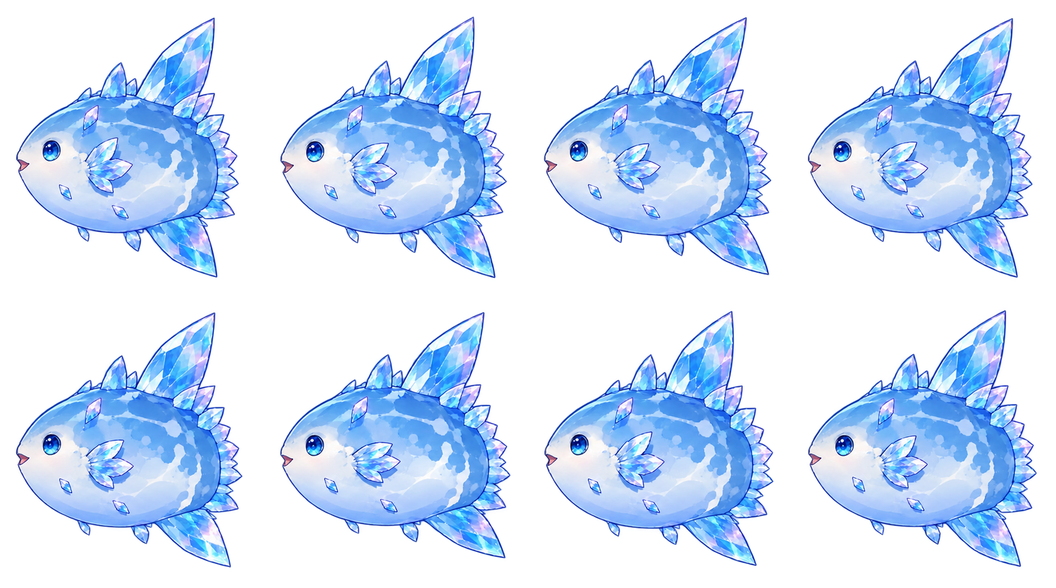
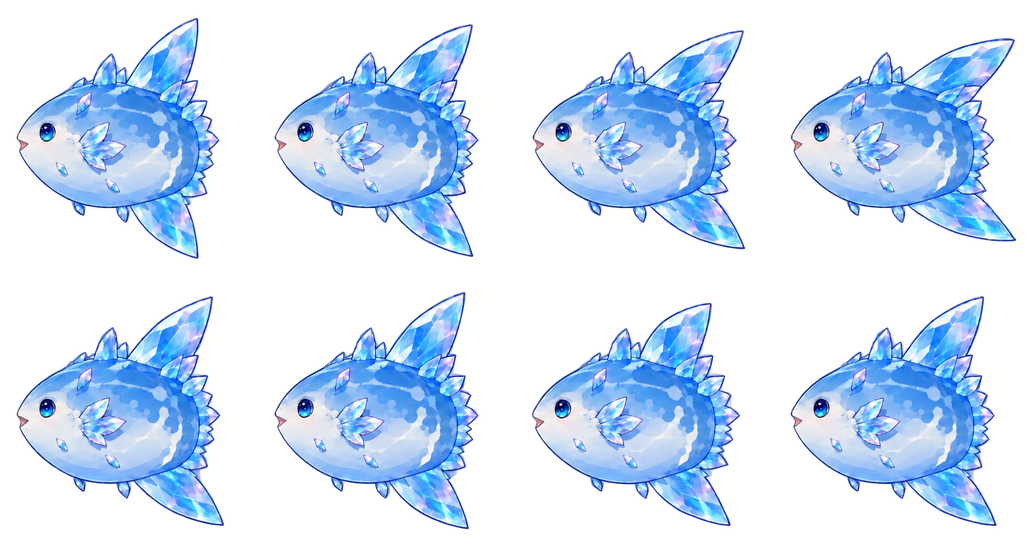
Add files via upload

diff --git a/js/draw-creatures.js b/js/draw-creatures.js
@@ -191,14 +191,26 @@ function fadeSparkles(c,def,L,h,tt,vis){
 // animated sprite sheet: one cell per frame, lined up on the snout, flipped so it faces +x like every other drawing
 function drawSprite(c,def,sp,L,tt,o){
   const f=o.f||{}, vis=f.vis??1, k=L/sp.len;
-  const fr=o.still ? 0 : Math.floor(((tt*sp.fps)%sp.frames+sp.frames)%sp.frames);
+  const pos=o.still ? 0 : ((tt*sp.fps)%sp.frames+sp.frames)%sp.frames, fr=Math.floor(pos);
   const sx=(fr%sp.cols)*sp.w, sy=Math.floor(fr/sp.cols)*sp.h;
+  // blend: hold each frame, then fade smoothly into the next one (hides jumps between hand-drawn frames)
+  let img=sp.img, ix=sx, iy=sy;
+  const u=sp.blend && !o.still ? Math.min(1,Math.max(0,(pos-fr-.35)/.65)) : 0, mix=u*u*(3-2*u);
+  if(mix>.01){
+    const nx=((fr+1)%sp.frames), bx=(nx%sp.cols)*sp.w, by=Math.floor(nx/sp.cols)*sp.h;
+    const buf=sp.buf||(sp.buf=document.createElement('canvas')); if(buf.width!==sp.w){ buf.width=sp.w; buf.height=sp.h; }
+    const b=buf.getContext('2d'); b.clearRect(0,0,sp.w,sp.h);
+    b.globalCompositeOperation='source-over'; b.globalAlpha=1-mix; b.drawImage(sp.img,sx,sy,sp.w,sp.h,0,0,sp.w,sp.h);
+    b.globalCompositeOperation='lighter'; b.globalAlpha=mix; b.drawImage(sp.img,bx,by,sp.w,sp.h,0,0,sp.w,sp.h);
+    b.globalCompositeOperation='source-over'; b.globalAlpha=1;
+    img=buf; ix=0; iy=0;
+  }
   // body centre = halfway along the body from the snout
   const cx=sp.centre?sp.centre[0]:sp.snout[0]+sp.len/2, cy=sp.centre?sp.centre[1]:sp.snout[1];
   c.save();
   if(sp.faces==='left') c.scale(-1,1);
   c.globalAlpha*= .07+.93*vis;
-  c.drawImage(sp.img, sx,sy,sp.w,sp.h, -cx*k,-cy*k, sp.w*k,sp.h*k);
+  c.drawImage(img, ix,iy,sp.w,sp.h, -cx*k,-cy*k, sp.w*k,sp.h*k);
   c.restore();
   c.save(); fadeSparkles(c,def,L,L*.27,tt,vis); c.restore();
 }
@@ -336,7 +348,7 @@ function drawTurtle(c,def,L,tt,o){
 function fishThumb(def,w,h,silhouette){
   const c=document.createElement('canvas'), d=2; c.width=w*d; c.height=h*d; const x=c.getContext('2d');
   const extra={crayfish:1.6,mussel:1.05,snail:1.2,frog:1.5,olm:1.1,gloweel:1.05,crystalshrimp:1.5,glowjelly:1.0,mooncrab:1.3,dragon:1.2,sturgeon:1.45,pike:1.4,squid:1.05,shark:1.35,turtle1:1.45,turtle2:1.45,turtle3:1.5,swordfish:1.55,angler:1.35,eel:1.05,puffer:1.3,koi:1.35,shrimp:1.5,lobster:1.6,jelly:1.0,clam:1.05,oyster:1.15,boot:1.15,can:1.2,tire:1.0,bottle:1.0,bag:1.0}[def.id]||1.3;
-  const hf={crayfish:.9,mussel:.6,snail:1.0,frog:.8,olm:.35,gloweel:.32,crystalshrimp:.9,glowjelly:1.25,mooncrab:1.0,dragon:.5,sturgeon:.45,pike:.45,grayling:.85,bluegill:.9,jadeperch:.9,lotuskoi:.7,mooncarp:.7,sculpin:.6,squid:.95,sunfish:1.15,shark:.55,turtle1:.8,turtle2:.8,turtle3:.8,perch:1.05,puffer:1.25,angler:1.35,swordfish:.75,koi:.85,salmon:.7,eel:.3,shrimp:.9,lobster:.95,jelly:1.25,clam:1.0,oyster:1.35,boot:1.1,can:1.0,tire:1.05,bottle:1.15,bag:1.4}[def.id]||.55;
+  const hf={crayfish:.9,mussel:.6,snail:1.0,frog:.8,olm:.35,gloweel:.32,crystalshrimp:.9,glowjelly:1.25,mooncrab:1.0,dragon:.5,sturgeon:.45,pike:.45,grayling:.85,bluegill:.9,jadeperch:.9,lotuskoi:.7,mooncarp:.7,sculpin:.6,squid:.95,sunfish:1.15,butterfly:.8,shark:.55,turtle1:.8,turtle2:.8,turtle3:.8,perch:1.05,puffer:1.25,angler:1.35,swordfish:.75,koi:.85,salmon:.7,eel:.3,shrimp:.9,lobster:.95,jelly:1.25,clam:1.0,oyster:1.35,boot:1.1,can:1.0,tire:1.05,bottle:1.15,bag:1.4}[def.id]||.55;
   const L=Math.min(w*.82/extra, h*.88/hf);
   x.scale(d,d); const cx={swordfish:-L*.2,shrimp:-L*.15,crystalshrimp:-L*.15,pike:-L*.08,sturgeon:-L*.1,lobster:-L*.05}[def.id]; const cy={angler:h*.12,jelly:-h*.08,glowjelly:-h*.08,grayling:h*.15,clam:h*.12,oyster:h*.2,bag:h*.05}[def.id]||0;
   x.translate(w/2+(cx??(def.move?0:L*.08)),h/2+cy);

diff --git a/data/creatures.js b/data/creatures.js
@@ -1,7 +1,7 @@
 // Whisker Lake · creatures. Edit the values below; keep the first line as it is.
 DATA.creatures =
 {
- "_about": "Every creature and piece of trash. ORDER MATTERS: save codes count catches in this order, so only ever add new ones at the END. Depths (min, max, minBed) and len are in world pixels (50 px = 1 m). To use your own drawing for a creature, add \"image\": \"assets/creatures/<name>.png\" (drawn facing right; its width becomes the creature length). fade: the creature turns see-through now and then (it can't see the bait or be reeled in while see-through). shy: lower = slower to notice the bait. heavy: slow to reel in. sprite: an animated sprite sheet (used instead of image once it has loaded): cols x rows cells of w x h pixels, played left to right then top to bottom at fps; faces = which way the art looks; snout = the snout point in every cell (frames are lined up on it); len = body length in sheet pixels, which becomes the creature length; centre (optional) = the middle of the body in a cell, if it isn't level with the snout.",
+ "_about": "Every creature and piece of trash. ORDER MATTERS: save codes count catches in this order, so only ever add new ones at the END. Depths (min, max, minBed) and len are in world pixels (50 px = 1 m). To use your own drawing for a creature, add \"image\": \"assets/creatures/<name>.png\" (drawn facing right; its width becomes the creature length). fade: the creature turns see-through now and then (it can't see the bait or be reeled in while see-through). shy: lower = slower to notice the bait. heavy: slow to reel in. sprite: an animated sprite sheet (used instead of image once it has loaded): cols x rows cells of w x h pixels, played left to right then top to bottom at fps; blend: true = fade smoothly from each frame into the next; faces = which way the art looks; snout = the snout point in every cell (frames are lined up on it); len = body length in sheet pixels, which becomes the creature length; centre (optional) = the middle of the body in a cell, if it isn't level with the snout.",
  "items": [
   {
    "id": "minnow",
@@ -1446,13 +1446,49 @@ DATA.creatures =
     "cols": 4,
     "rows": 2,
     "frames": 8,
-    "fps": 10,
+    "fps": 7,
+    "blend": true,
     "faces": "left",
-    "w": 264,
-    "h": 294,
-    "snout": [15.6, 162.6],
-    "len": 227,
-    "centre": [129.1, 146.1]
+    "w": 258,
+    "h": 276,
+    "snout": [16.2, 142.2],
+    "len": 208,
+    "centre": [120.0, 138.3]
+   }
+  },
+  {
+   "id": "butterfly",
+   "area": "guardian",
+   "name": "Butterflyfish",
+   "min": 100,
+   "max": 650,
+   "len": 52,
+   "speed": 45,
+   "pts": 100,
+   "count": 1,
+   "shy": 0.7,
+   "pull": 65,
+   "thrash": [
+    0.5,
+    0.9
+   ],
+   "tired": [
+    0.9,
+    1.4
+   ],
+   "sprite": {
+    "image": "assets/creatures/butterflyfish_swim.png",
+    "cols": 4,
+    "rows": 2,
+    "frames": 8,
+    "fps": 8,
+    "blend": true,
+    "faces": "left",
+    "w": 288,
+    "h": 225,
+    "snout": [15.6, 133.2],
+    "len": 248,
+    "centre": [139.5, 112.2]
    }
   }
  ]

diff --git a/index.html b/index.html
@@ -6,7 +6,7 @@
 <title>Whisker Lake</title>
 <link rel="preconnect" href="https://fonts.googleapis.com">
 <link rel="stylesheet" href="https://fonts.googleapis.com/css2?family=Lilita+One&family=Nunito:wght@600;700;800&display=swap">
-<link rel="stylesheet" href="styles.css?v=2026-10-06b">
+<link rel="stylesheet" href="styles.css?v=2026-10-06e">
 </head>
 <body>
 <div id="app">
@@ -110,6 +110,6 @@
 </div>
 
 <!-- When you upload changed files, change the version (both places) so browsers fetch the new ones -->
-<script src="js/loader.js?v=2026-10-06b"></script>
+<script src="js/loader.js?v=2026-10-06e"></script>
 </body>
 </html>

diff --git a/README.md b/README.md
@@ -102,7 +102,7 @@ Every cat has a fishing talent. Your cat stands up in the boat with the rod in i
 | The Luminous Cave | Blind Cavefish, Lantern Loach, Ghost Catfish, Olm, Glow Eel, Crystal Shrimp, Starlight Jellyfish, Moonstone Crab, Crystal Sunfish (400 points), Crystal Axolotl (760 points) |
 | The Frozen Lake | Cisco, Lake Whitefish, Arctic Char, Icefish, Burbot, Lake Trout |
 | The Ducky Stream | Stickleback, Golden Shiner, Creek Chub, Bluegill, Channel Catfish, Frog, Pond Snail |
-| The Guardian's Lake | Lotus Koi, Blossom Trout, Jade Perch, Moon Carp, Guardian Dragon (5,000 points) |
+| The Guardian's Lake | Lotus Koi, Blossom Trout, Jade Perch, Moon Carp, Butterflyfish (100 points, only one at a time), Guardian Dragon (5,000 points) |
 
 **The Crystal Axolotl** is the cave's biggest prize. It glows in the dark, but every few seconds it fades until it's almost invisible. While it's see-through it won't notice your bait, and if it's on your hook, reeling does nothing, so wait for it to shine again. It is big, shy and hard to land.
 
@@ -185,5 +185,5 @@ To play on your own computer, unzip the folder and double-click `index.html`. Ke
 
 - Cat characters and artwork: original drawings by the creator of this repo.
 - Fishing poses: a sprite sheet of the same five cats, each with five faces.
-- Squid, Crystal Axolotl and Crystal Sunfish drawings and the map: artwork supplied by the creator of this repo.
+- Squid, Crystal Axolotl, Crystal Sunfish and Butterflyfish drawings and the map: artwork supplied by the creator of this repo.
 - Game code: built with help from Claude, with the boat redrawn with help from ChatGPT.
